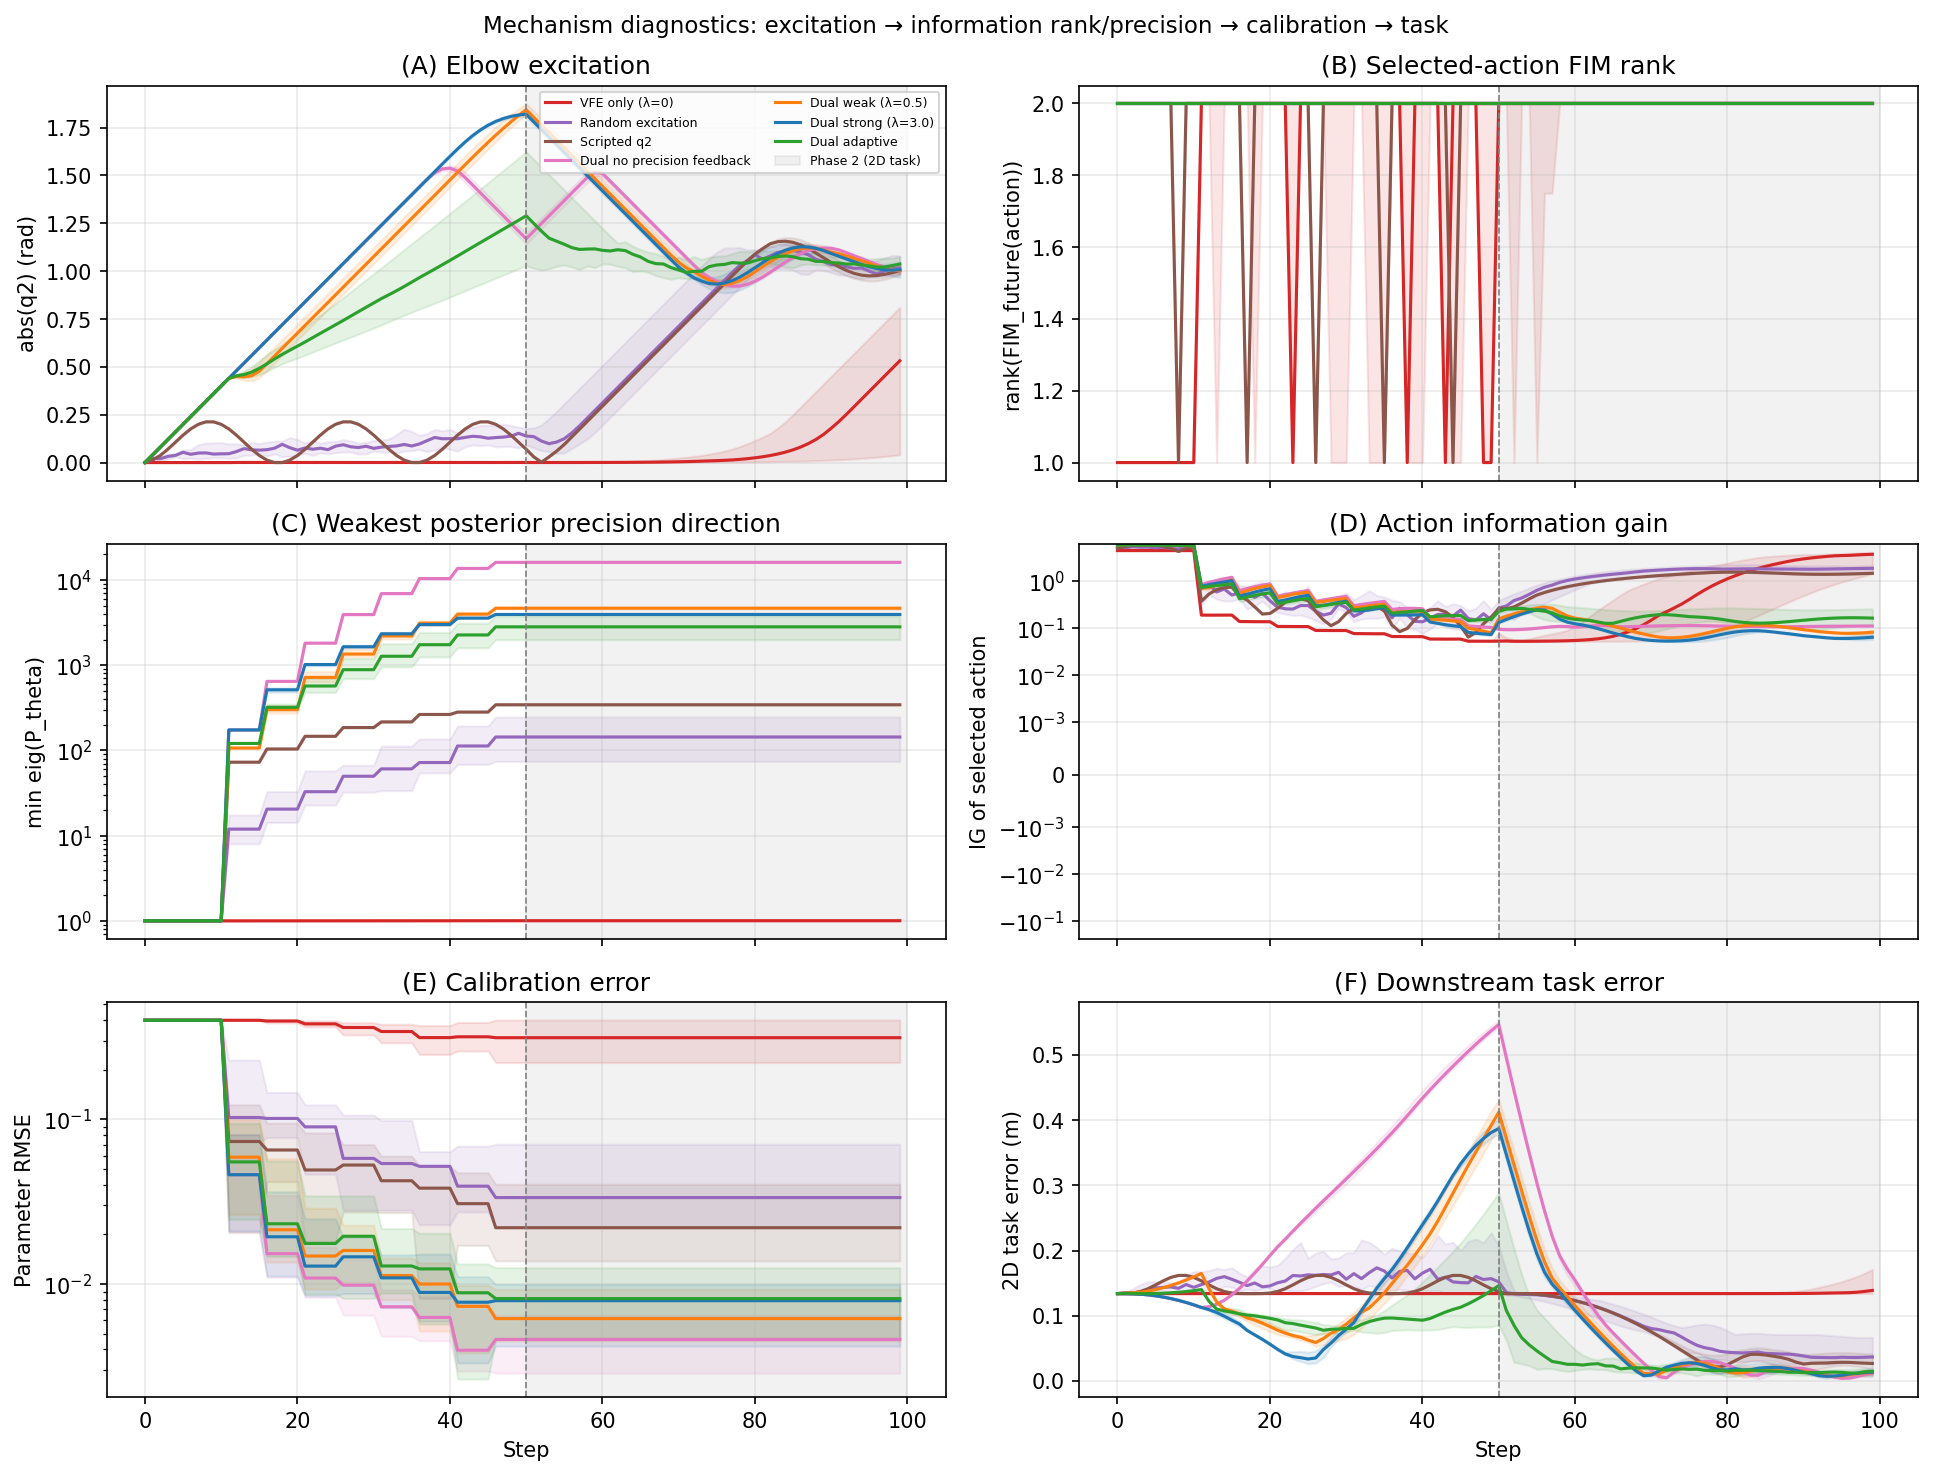
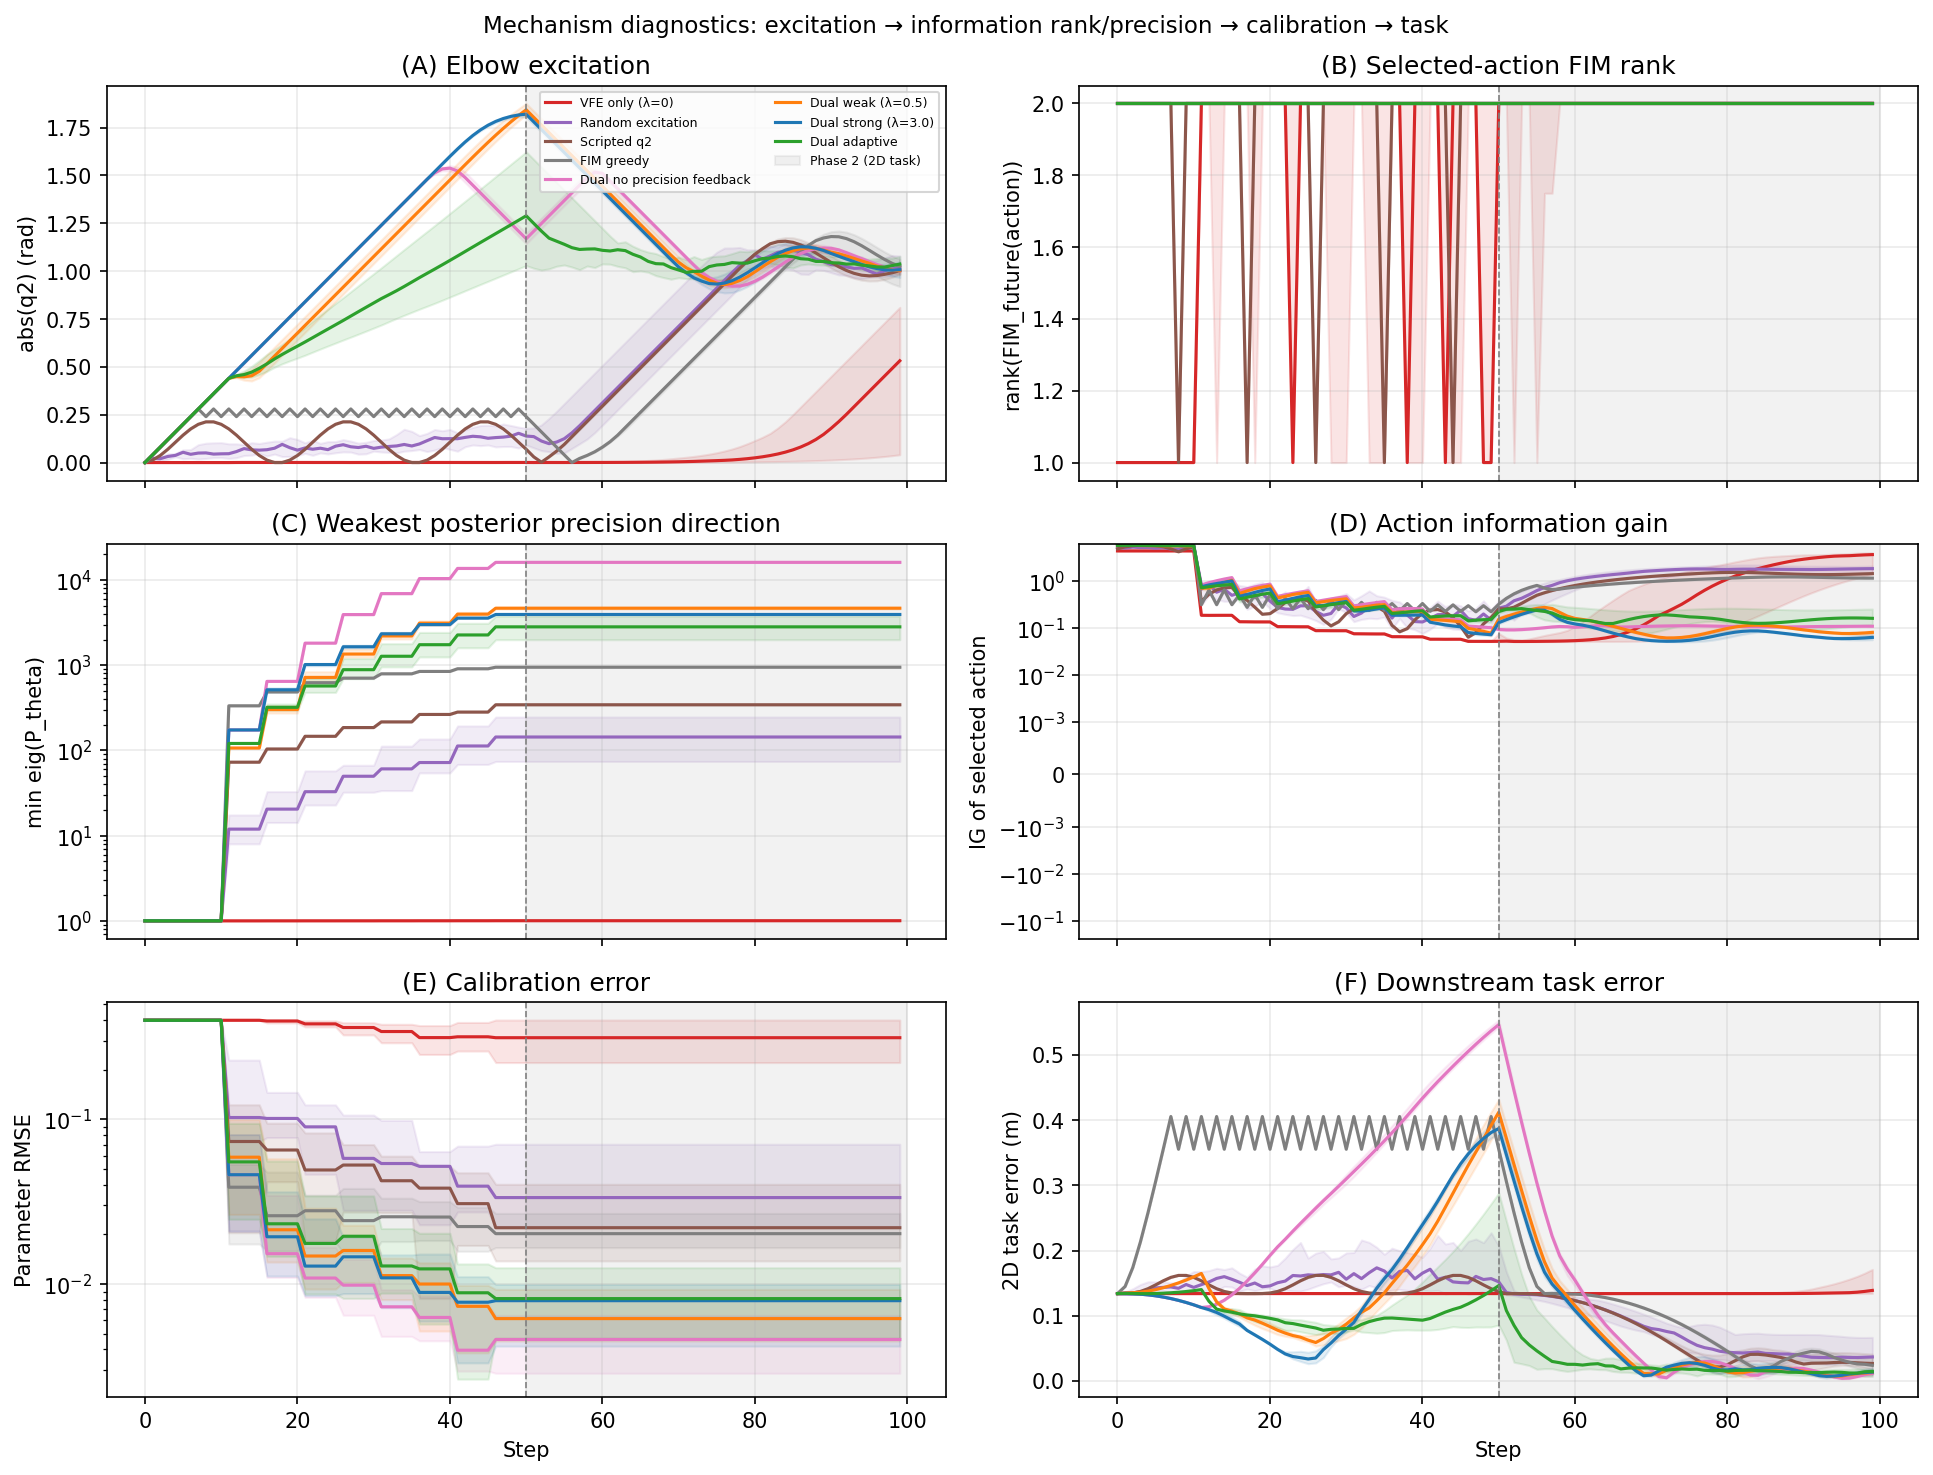
Add FIM-greedy baseline

diff --git a/experiments/dual_control_1d_obs.py b/experiments/dual_control_1d_obs.py
@@ -9,6 +9,7 @@ Conditions:
   vfe_only      λ = 0.0   pure task (drives to wrong target, calibration stalls)
   random        u ~ U(-U_MAX, U_MAX) during Phase 1 (task-free excitation)
   scripted_q2   hand-coded q2 excitation during Phase 1 (strong heuristic baseline)
+  fim_greedy    D-optimal greedy action maximizing logdet(FIM_future)
   dual_no_precision_feedback
                 λ = 3.0   epistemic objective uses fixed prior precision only
   dual_weak     λ = 0.5   mild epistemic
@@ -84,6 +85,7 @@ CONDITIONS = [
     "vfe_only",
     "random",
     "scripted_q2",
+    "fim_greedy",
     "dual_no_precision_feedback",
     "dual_weak",
     "dual_strong",
@@ -93,6 +95,7 @@ LAMBDA_FIXED = {
     "vfe_only": 0.0,
     "random": 0.0,
     "scripted_q2": 0.0,
+    "fim_greedy": 0.0,
     "dual_no_precision_feedback": 3.0,
     "dual_weak": 0.5,
     "dual_strong": 3.0,
@@ -100,6 +103,7 @@ LAMBDA_FIXED = {
 }
 SCRIPTED_Q2_AMP = 0.75
 SCRIPTED_Q2_PERIOD = 18
+FIM_GREEDY_ENERGY = 0.05
 PARAM_RMSE_FAILURE_THRESHOLD = 0.10
 TASK_ERR_FAILURE_THRESHOLD = 0.05
 
@@ -191,6 +195,27 @@ def scripted_q2_action(t):
     """Deterministic q2 excitation baseline with no epistemic feedback."""
     phase = 2.0 * np.pi * (t + 1) / SCRIPTED_Q2_PERIOD
     return jnp.array([0.0, SCRIPTED_Q2_AMP * np.sin(phase)])
+
+def optimize_fim_greedy_action(q, theta_est):
+    """D-optimal greedy baseline: choose action maximizing logdet(FIM_future).
+
+    This is intentionally not an Active Inference controller. It is a simple
+    OED-style comparison that asks whether a direct FIM-greedy heuristic is
+    sufficient to break the 1D observation degeneracy.
+    """
+    grid = np.linspace(-U_MAX, U_MAX, 5)
+    best_score = -np.inf
+    best_u = np.zeros(2)
+    for u1 in grid:
+        for u2 in grid:
+            u_cand = jnp.array([u1, u2])
+            fim = compute_fim(q, u_cand, theta_est)
+            sign, logdet = jnp.linalg.slogdet(fim + 1e-6 * jnp.eye(2))
+            score = float(logdet - FIM_GREEDY_ENERGY * jnp.sum(u_cand**2))
+            if sign > 0 and score > best_score:
+                best_score = score
+                best_u = np.array([u1, u2])
+    return jnp.array(best_u)
 
 # ---------------------------------------------------------------------------
 # Action optimisation
@@ -299,6 +324,9 @@ def run_one(seed, condition):
             elif condition == "scripted_q2":
                 lambda_eff = 0.0
                 u = scripted_q2_action(t)
+            elif condition == "fim_greedy":
+                lambda_eff = 0.0
+                u = optimize_fim_greedy_action(q, theta_est)
             else:
                 lf = LAMBDA_FIXED[condition]
                 if lf is None:
@@ -477,6 +505,7 @@ def main():
         "vfe_only": "C3",
         "random": "C4",
         "scripted_q2": "C5",
+        "fim_greedy": "C7",
         "dual_no_precision_feedback": "C6",
         "dual_weak": "C1",
         "dual_strong": "C0",
@@ -486,6 +515,7 @@ def main():
         "vfe_only": "VFE only (λ=0)",
         "random": "Random excitation",
         "scripted_q2": "Scripted q2",
+        "fim_greedy": "FIM greedy",
         "dual_no_precision_feedback": "Dual no precision feedback",
         "dual_weak": "Dual weak (λ=0.5)",
         "dual_strong": "Dual strong (λ=3.0)",
@@ -548,6 +578,7 @@ def main():
         "vfe_only": "0",
         "random": "rand",
         "scripted_q2": "script",
+        "fim_greedy": "fim",
         "dual_no_precision_feedback": "3/noP",
         "dual_weak": "0.5",
         "dual_strong": "3.0",

diff --git a/README.md b/README.md
@@ -250,6 +250,8 @@ Expected qualitative result:
   worse than epistemic dual-control in calibration and downstream task error.
 - `scripted_q2`: a strong heuristic baseline; deliberate q2 excitation improves
   over random but does not match the best information-gain controllers.
+- `fim_greedy`: a D-optimal, OED-style baseline; improves over random but spends
+  high energy and still underperforms the dual controllers.
 - `dual_no_precision_feedback`: fixed-prior IG control; shows that posterior
   precision feedback is not uniquely required in this minimal setting.
 - `dual_weak`, `dual_strong`, `dual_adaptive`: low parameter RMSE and much lower
@@ -262,6 +264,7 @@ Representative medians from the current result set (`N_SEEDS = 20`):
 vfe_only                    RMSE@50 ~= 0.313   TaskErr@100 ~= 0.139 m   EnergyPh1 ~= 0.000
 random                      RMSE@50 ~= 0.033   TaskErr@100 ~= 0.037 m   EnergyPh1 ~= 0.420
 scripted_q2                 RMSE@50 ~= 0.022   TaskErr@100 ~= 0.027 m   EnergyPh1 ~= 0.289
+fim_greedy                  RMSE@50 ~= 0.020   TaskErr@100 ~= 0.024 m   EnergyPh1 ~= 1.280
 dual_no_precision_feedback  RMSE@50 ~= 0.005   TaskErr@100 ~= 0.011 m   EnergyPh1 ~= 0.957
 dual_weak                   RMSE@50 ~= 0.006   TaskErr@100 ~= 0.013 m   EnergyPh1 ~= 0.667
 dual_strong                 RMSE@50 ~= 0.008   TaskErr@100 ~= 0.013 m   EnergyPh1 ~= 0.661
@@ -274,6 +277,7 @@ Failure rates using `RMSE@50 > 0.10` and `TaskErr@100 > 0.05`:
 vfe_only:    RMSE failure 0.90, task failure 0.95
 random:      RMSE failure 0.10, task failure 0.35
 scripted_q2: RMSE failure 0.00, task failure 0.15
+fim_greedy:  RMSE failure 0.00, task failure 0.20
 dual_*:      RMSE failure 0.00, task failure 0.00
 ```
 
@@ -334,8 +338,8 @@ The three-reviewer internal discussion converged on this near-term plan:
 3. Interpret the ablations conservatively: IG/FIM-aware excitation is the
    supported mechanism; posterior-precision feedback is not uniquely necessary
    in this minimal setting.
-4. Add a cost-matched IG/FIM-greedy or OED-style baseline before making stronger
-   comparative claims.
+4. Treat the current `fim_greedy` result as an initial OED-style baseline; a
+   cost-matched FIM-greedy baseline remains future work.
 5. Use `results/dual_control_1d_obs_diagnostics.png` to report q2, information
    rank, precision, IG, RMSE, and task error together.
 6. Draft a short workshop-style paper section before expanding to hardware.
@@ -349,7 +353,9 @@ The three-reviewer internal discussion converged on this near-term plan:
 - Scripted q2 excitation is a strong heuristic baseline; the distinctive value
   of the proposed controller should be framed as autonomous information-aware
   excitation, not merely any elbow motion.
-- More classical OED and FIM-greedy baselines are still future work.
+- The current FIM-greedy baseline is not cost-matched and spends the most
+  Phase-1 energy; more classical and cost-matched OED baselines are still future
+  work.
 - `P_theta` is a local Laplace / Gauss-Newton precision approximation, not a
   guaranteed globally accurate posterior covariance.
 - Real robot safety constraints, latency, friction, calibration targets, and